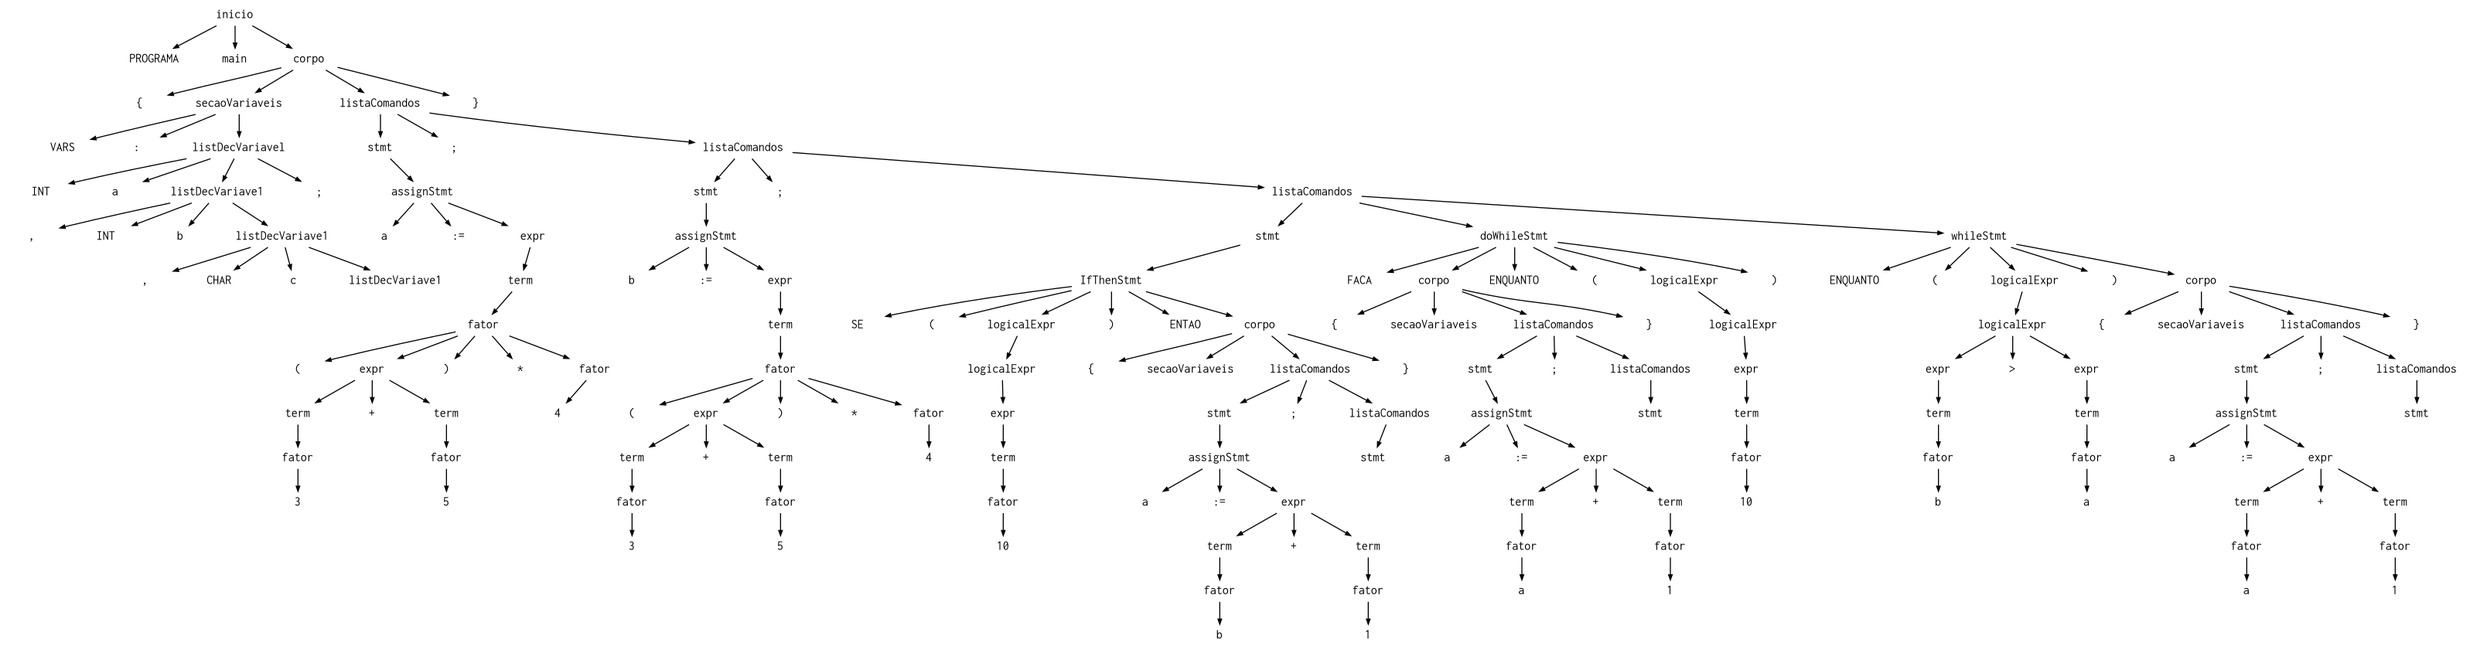
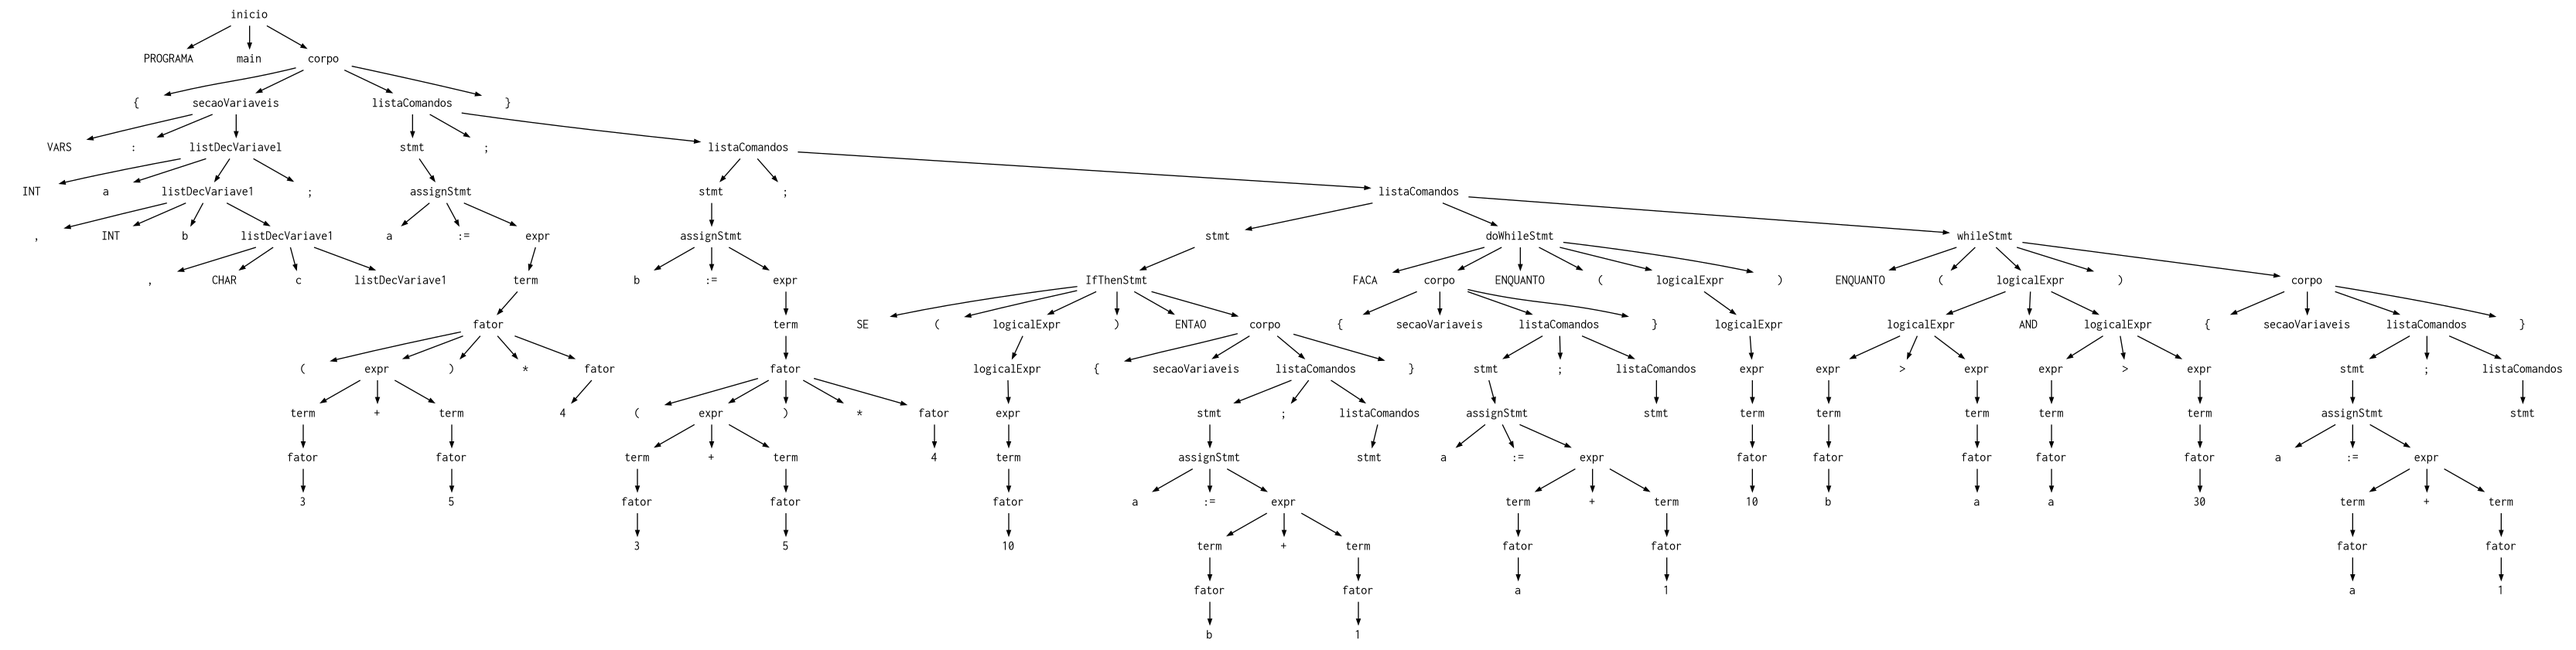
adicionando o Add que faltou

diff --git a/front-end/parser.py b/front-end/parser.py
@@ -336,7 +336,7 @@ class Parser:
         self.logicalStmt()
         if self.current_token.type in (OPAnd, OPOr):
             self.eat(self.current_token.type)
-        
+            self.logicalStmt()
         self.current_node = _save
 
 
